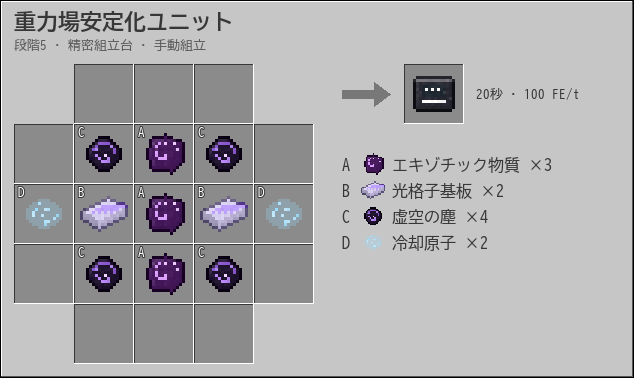
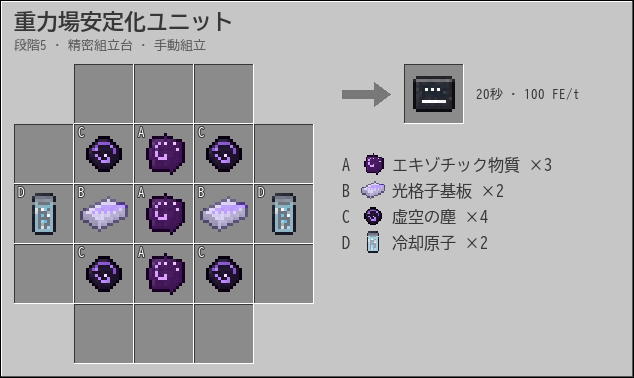
Animate cold atoms in an ampoule and give the primordial seed an orbit
Cold atoms become a translucent ampoule whose lattice atoms twinkle as a
cooling laser sweeps down; the primordial seed becomes a gold star with
an orbit ring that fits the icon, sparks circling it and a pulsing core.

Changed region(s): [[0.4196, 0.4947, 0.4795, 0.6402], [0.03, 0.4947, 0.1199, 0.6402], [0.5694, 0.6111, 0.5994, 0.6693]]

diff --git a/tools/genesis_assets.py b/tools/genesis_assets.py
@@ -4,7 +4,7 @@
 - 創世炉の核: 黒い台に金の縁取り。天面に光る八芒の星と渦、側面に光る輪の窓
 - 創世炉の枠: 黒い装甲板に金の縁と、中心に小さな星
 - 創世炉の柱: 黒い柱の中を、白金の光の筋が縦に通る
-- 原初の種: 金から白へ光る小さな球と、そこから伸びる渦の腕
+- 原初の種: 金の星と、そのまわりの紫の軌道の輪。輪の上を光の粒が回り、星が脈打つ（動く絵）
 """
 import math
 
@@ -89,20 +89,79 @@ def core_bottom():
     return im
 
 
-def seed():
-    im, d = new()
-    c = 7.5
-    for r, col in ((5.6, mix(DEEP_GOLD, BLACK, 0.3)), (4.8, GOLD), (3.4, mix(GOLD, PALE, 0.5)), (2.0, PALE)):
-        d.ellipse([c - r, c - r, c + r, c + r], fill=rgba(col))
-    d.ellipse([c - 5.6, c - 5.6, c + 5.6, c + 5.6], outline=(40, 30, 20, 255))
-    for arm in range(2):
-        for i in range(8):
-            t = i / 7
-            a = arm * math.pi + 0.6 + t * 2.6
-            r = 1.2 + t * 4.2
-            d.point((round(c + r * math.cos(a)), round(c + r * math.sin(a))), fill=(255, 255, 255, int(255 - 120 * t)))
-    d.point([(6, 6)], fill=(255, 255, 255, 255))
+SEED_FRAMES, SEED_TICKS = 16, 3
+
+
+def seed(t=0.0):
+    """原初の種（1コマ）: 金の星（白い芯）と、そのまわりの紫の軌道の輪（16px の中に収まる幅）。輪の奥の半分は星の後ろ、
+    手前の半分は星の上。t（0〜1）で、輪の上を光の粒が回り（奥では暗く、星の後ろでは隠れる）、星が脈打ち、四隅の星がまたたく。"""
+    from PIL import Image
+    im = Image.new('RGBA', (S, S), (0, 0, 0, 0))
+    px = im.load()
+    ink, gold, deep, pale = (24, 28, 40), (240, 190, 80), (170, 110, 40), (255, 244, 200)
+    front_c, back_c = (210, 170, 255), (120, 90, 170)
+
+    def put(x, y, c):
+        if 0 <= x < S and 0 <= y < S:
+            px[x, y] = tuple(c[:3]) + (255,)
+
+    def ring(n=90):
+        for k in range(n):
+            a = 2 * math.pi * k / n
+            yield round(8 + 6.2 * math.cos(a) - 0.5), round(8 + 2.0 * math.sin(a) - 0.5), math.sin(a) > 0
+
+    for x, y, front in ring():
+        if not front:
+            put(x, y, back_c)
+    pulse = 0.5 + 0.5 * math.cos(t * 2 * math.pi)
+    r = 3.6
+    for y in range(S):
+        for x in range(S):
+            d = math.hypot(x + 0.5 - 8, y + 0.5 - 8)
+            if d <= r:
+                q = d / r
+                core = mix(pale, (255, 255, 255), pulse * 0.6)
+                put(x, y, mix(core, gold, q * (1.6 - 0.4 * pulse)) if q < 0.85 else deep)
+    put(7, 7, (255, 255, 255))
+    for x, y, front in ring():
+        if front:
+            put(x, y, front_c)
+    # 輪の上を回る光の粒（2つ、反対側に）
+    for k in range(2):
+        a = 2 * math.pi * (t + k / 2)
+        x, y = round(8 + 6.2 * math.cos(a) - 0.5), round(8 + 2.0 * math.sin(a) - 0.5)
+        front = math.sin(a) > 0
+        if front:
+            put(x, y, (255, 255, 255))
+        elif math.hypot(x + 0.5 - 8, y + 0.5 - 8) > r:
+            put(x, y, (190, 160, 240))                      # 奥（星に隠れない所だけ）
+    # 縁（形の外側の1ドット）
+    add = []
+    for y in range(S):
+        for x in range(S):
+            if px[x, y][3] > 0:
+                continue
+            for dx, dy in ((1, 0), (-1, 0), (0, 1), (0, -1)):
+                nx, ny = x + dx, y + dy
+                if 0 <= nx < S and 0 <= ny < S and px[nx, ny][3] > 120:
+                    add.append((x, y))
+                    break
+    for x, y in add:
+        put(x, y, ink)
+    # 四隅の星のまたたき（縁の外）
+    for i, (x, y) in enumerate(((3, 3), (12, 12))):
+        if (round(t * SEED_FRAMES) + i * 8) % SEED_FRAMES < 6:
+            put(x, y, pale)
     return im
+
+
+def seed_sheet():
+    """原初の種の動く絵（コマを縦に並べた1枚）。"""
+    from PIL import Image
+    sheet = Image.new('RGBA', (S, S * SEED_FRAMES), (0, 0, 0, 0))
+    for k in range(SEED_FRAMES):
+        sheet.paste(seed(k / SEED_FRAMES), (0, k * S))
+    return sheet
 
 
 def textures(tb, ti, save):
@@ -111,7 +170,10 @@ def textures(tb, ti, save):
     save(core_top(), tb / 'genesis_core_top.png')
     save(core_side(), tb / 'genesis_core_side.png')
     save(core_bottom(), tb / 'genesis_core_bottom.png')
-    save(seed(), ti / 'primordial_seed.png')
+    save(seed_sheet(), ti / 'primordial_seed.png')
+    import json
+    (ti / 'primordial_seed.png.mcmeta').write_text(
+        json.dumps({'animation': {'frametime': SEED_TICKS, 'interpolate': False}}, indent=2) + '\n', encoding='utf-8')
 
 
 def models(write_json, assets):

diff --git a/tools/art16.py b/tools/art16.py
@@ -2643,6 +2643,49 @@ def permit_card():
 
 # ---------------------------------------------------------------- 動くアイテムの絵（縦に並べたコマ。gen_data.py が .mcmeta を付ける）
 
+def anim_cold_atoms(t):
+    """冷却原子: 細いガラスのアンプル（外の縁と金属の栓は不透明、ガラスの壁は半透明、中の真空はほとんど透ける）。
+    格子に並んだ8つの原子が順にまたたき、冷やすレーザーの光の筋が上から下へ通る。原子は時々わずかに揺れる。"""
+    from PIL import Image
+    im = Image.new('RGBA', (S, S), (0, 0, 0, 0))
+    px = im.load()
+    f = round(t * 16) % 16
+    ink, cyan, ice, white = (24, 28, 40), (90, 200, 255), (190, 236, 255), (250, 254, 255)
+
+    def put(x, y, c, a=255):
+        px[x, y] = tuple(c[:3]) + (a,)
+
+    for y in range(3, 14):
+        for x in range(4, 12):
+            if x in (4, 11) and y in (3, 13):
+                continue
+            if x in (4, 11) or y == 13:
+                put(x, y, ink)                              # 外の縁
+            elif x in (5, 10) or y == 12:
+                put(x, y, (150, 210, 240), 150)             # ガラスの壁
+            else:
+                put(x, y, (30, 60, 100), 70)                # 中の真空
+    for y in (4, 5, 6):
+        put(5, y, (230, 248, 255), 210)                     # ガラスの光の筋
+    for x in range(4, 12):
+        put(x, 2, ink if x in (4, 11) else (150, 156, 170))
+        put(x, 1, ink if x in (4, 11) else (110, 116, 130))
+    for x in range(5, 11):
+        put(x, 0, ink)
+    row = 4 + f * 9 // 16                                   # レーザーの光の筋
+    for x in range(5, 11):
+        put(x, row, (120, 230, 255), 120)
+    for i, (x, y) in enumerate(((6, 5), (8, 5), (7, 7), (9, 7), (6, 9), (8, 9), (7, 11), (9, 11))):
+        k = 0.5 + 0.5 * math.cos((f + i * 5) % 16 / 16 * 2 * math.pi)
+        dx = 1 if (f // 4 + i) % 4 == 0 else 0
+        put(x + dx - (1 if x + dx > 9 else 0), y, mix(cyan, white, k), int(170 + 85 * k))
+        if k > 0.85:
+            put(x, y - 1, ice, 90)
+    centred = Image.new('RGBA', (S, S), (0, 0, 0, 0))
+    centred.paste(im, (0, 1))                               # 栓の上端（0）から底（13）まで: 1つ下げて上下の余白をそろえる
+    return centred
+
+
 def _glow_pt(d, x, y, c, a=255):
     d.point((round(x), round(y)), fill=rgba(c, a))
 
@@ -2763,6 +2806,7 @@ def anim_pocket(t):
 # ID: (コマを描く関数（t は 0〜1）, コマ数, 1コマの tick 数)
 ANIMATED_ITEMS = {
     'micro_black_hole_vessel': (anim_micro_black_hole, 12, 2),
+    'cold_atoms': (anim_cold_atoms, 16, 2),
     'exotic_matter': (anim_exotic_matter, 12, 3),
     'jet_condensate': (lambda t: _anim_vial(t, (120, 220, 255), True), 8, 3),
     'hawking_condensate': (lambda t: _anim_vial(t, (255, 140, 80), True), 8, 3),
